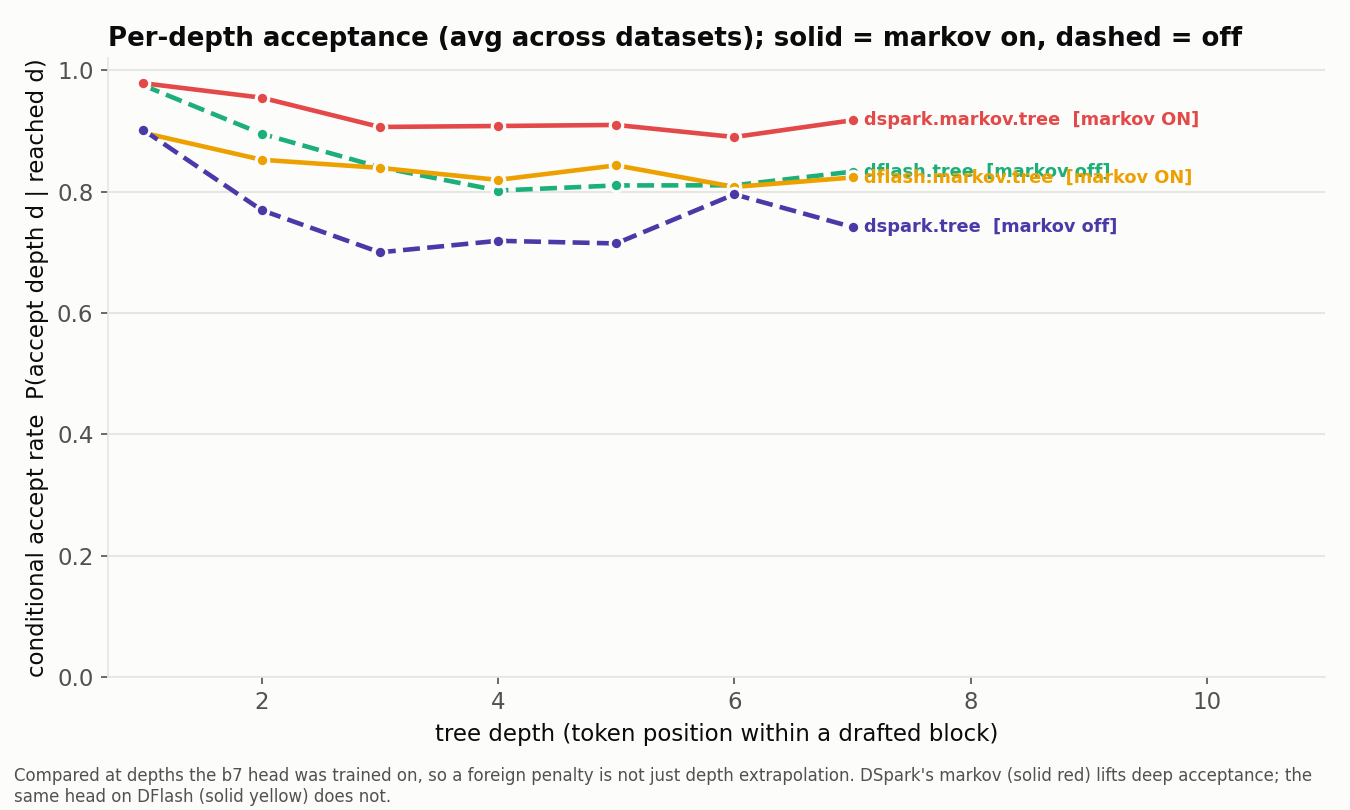
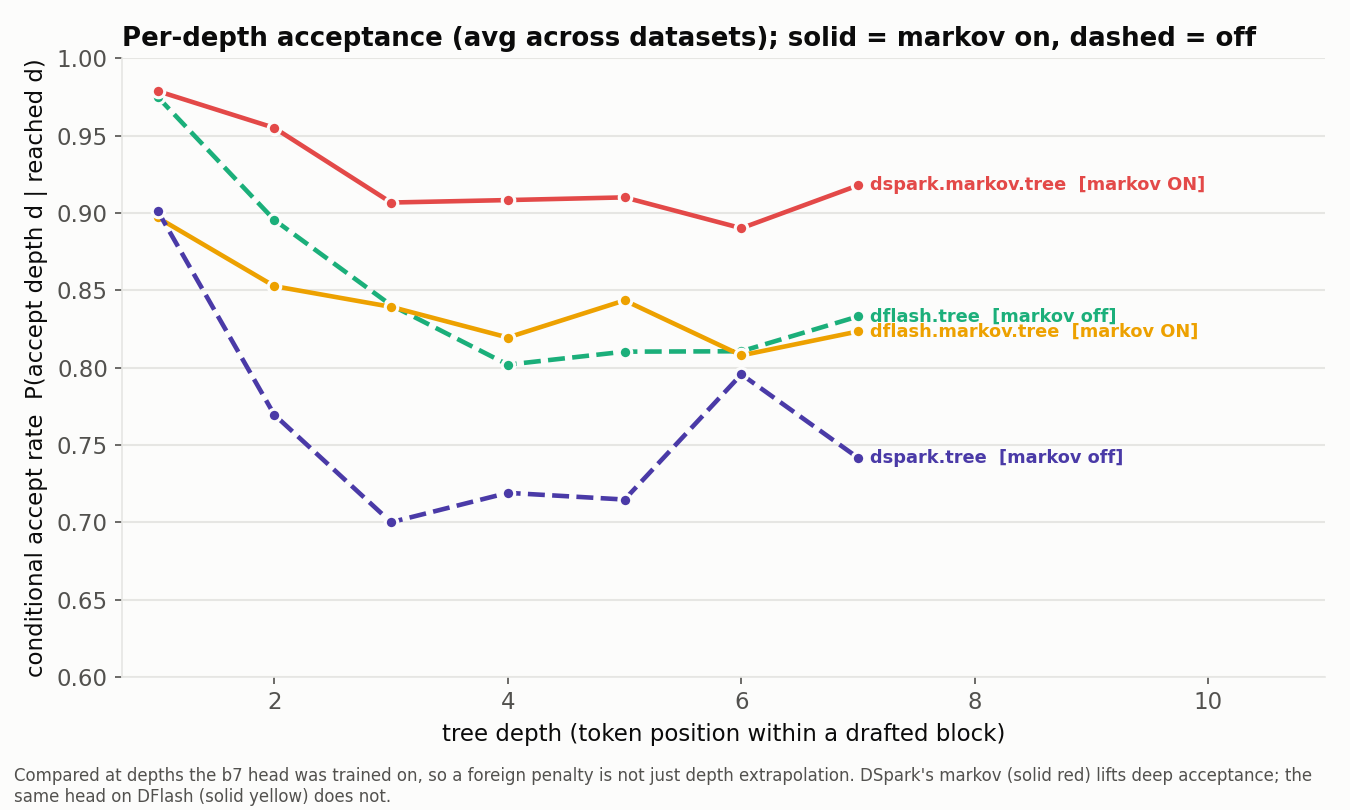
Charts: add dataset-aggregated acceptance chart; zoom per-depth to 0.6-1.0
New acceptance_by_method_aggregated.png (one bar per method, mean over all
datasets, no subtitle/caption). per_depth_accept.png y-axis zoomed to [0.6,1.0]
to separate the high-acceptance methods.

Claude-Session: https://claude.ai/code/session_012izDQo6W4n6kp2LjqRZPVL

diff --git a/experiment1-harness/Results/make_charts.py b/experiment1-harness/Results/make_charts.py
@@ -137,6 +137,27 @@ def chart_acceptance(summary, out):
     print(f"wrote {out}")
 
 
+def chart_acceptance_aggregated(summary, out):
+    """Mean acceptance length per method, averaged across all datasets. One bar per
+    method. No subtitle, no caption (per request)."""
+    results = summary["results"]
+    datasets = list(results)
+    methods = [m for m in METHOD_COLOR if any(m in results[d] for d in datasets)]
+    means = {m: _mean([results[d][m]["mean_accept"] for d in datasets if m in results[d]]) for m in methods}
+    fig, ax = plt.subplots(figsize=(9, 5.4))
+    xs = list(range(len(methods)))
+    for x, m in zip(xs, methods):
+        ax.bar(x, means[m], width=0.7, color=METHOD_COLOR[m], edgecolor=SURFACE, linewidth=1.5, zorder=3)
+        ax.text(x, means[m] + 0.08, f"{means[m]:.2f}", ha="center", va="bottom", fontsize=9.5, color=INK2)
+    _style(ax)
+    ax.set_xticks(xs)
+    ax.set_xticklabels([_label(m) for m in methods], rotation=40, ha="right", fontsize=8.5)
+    ax.set_ylabel("mean acceptance length (tokens accepted / round)")
+    ax.set_title("Acceptance length by method", fontsize=13, fontweight="bold", loc="left")
+    fig.tight_layout(); fig.savefig(out, dpi=150); plt.close(fig)
+    print(f"wrote {out}")
+
+
 def chart_per_depth(summary, out):
     results = summary["results"]
     datasets = list(results)
@@ -159,12 +180,13 @@ def chart_per_depth(summary, out):
         ls = "-" if METHOD_META[m][2] else "--"
         ax.plot(depths, means, color=METHOD_COLOR[m], linewidth=2.2, linestyle=ls,
                 marker="o", markersize=6, markeredgecolor=SURFACE, markeredgewidth=1.5, zorder=3)
-        ax.text(depths[-1] + 0.1, means[-1], _label(m), va="center", ha="left",
+        ty = min(max(means[-1], 0.61), 0.99)  # keep the end-label inside the zoomed range
+        ax.text(depths[-1] + 0.1, ty, _label(m), va="center", ha="left",
                 fontsize=8.5, color=METHOD_COLOR[m], fontweight="bold")
     _style(ax)
     ax.set_xlabel("tree depth (token position within a drafted block)")
     ax.set_ylabel("conditional accept rate  P(accept depth d | reached d)")
-    ax.set_ylim(0, 1.02)
+    ax.set_ylim(0.6, 1.0)  # zoomed to the high range
     ax.set_title("Per-depth acceptance (avg across datasets); solid = markov on, dashed = off",
                  fontsize=12.5, fontweight="bold", loc="left")
     ax.set_xlim(right=max(ax.get_xticks()) + 3)
@@ -273,6 +295,7 @@ def main():
     outdir = Path(path).parent
     chart_transfer(summary, outdir / "transfer.png")
     chart_acceptance(summary, outdir / "acceptance_by_method.png")
+    chart_acceptance_aggregated(summary, outdir / "acceptance_by_method_aggregated.png")
     chart_per_depth(summary, outdir / "per_depth_accept.png")
     chart_corrector_fit(summary, outdir / "corrector_fit.png")
 
